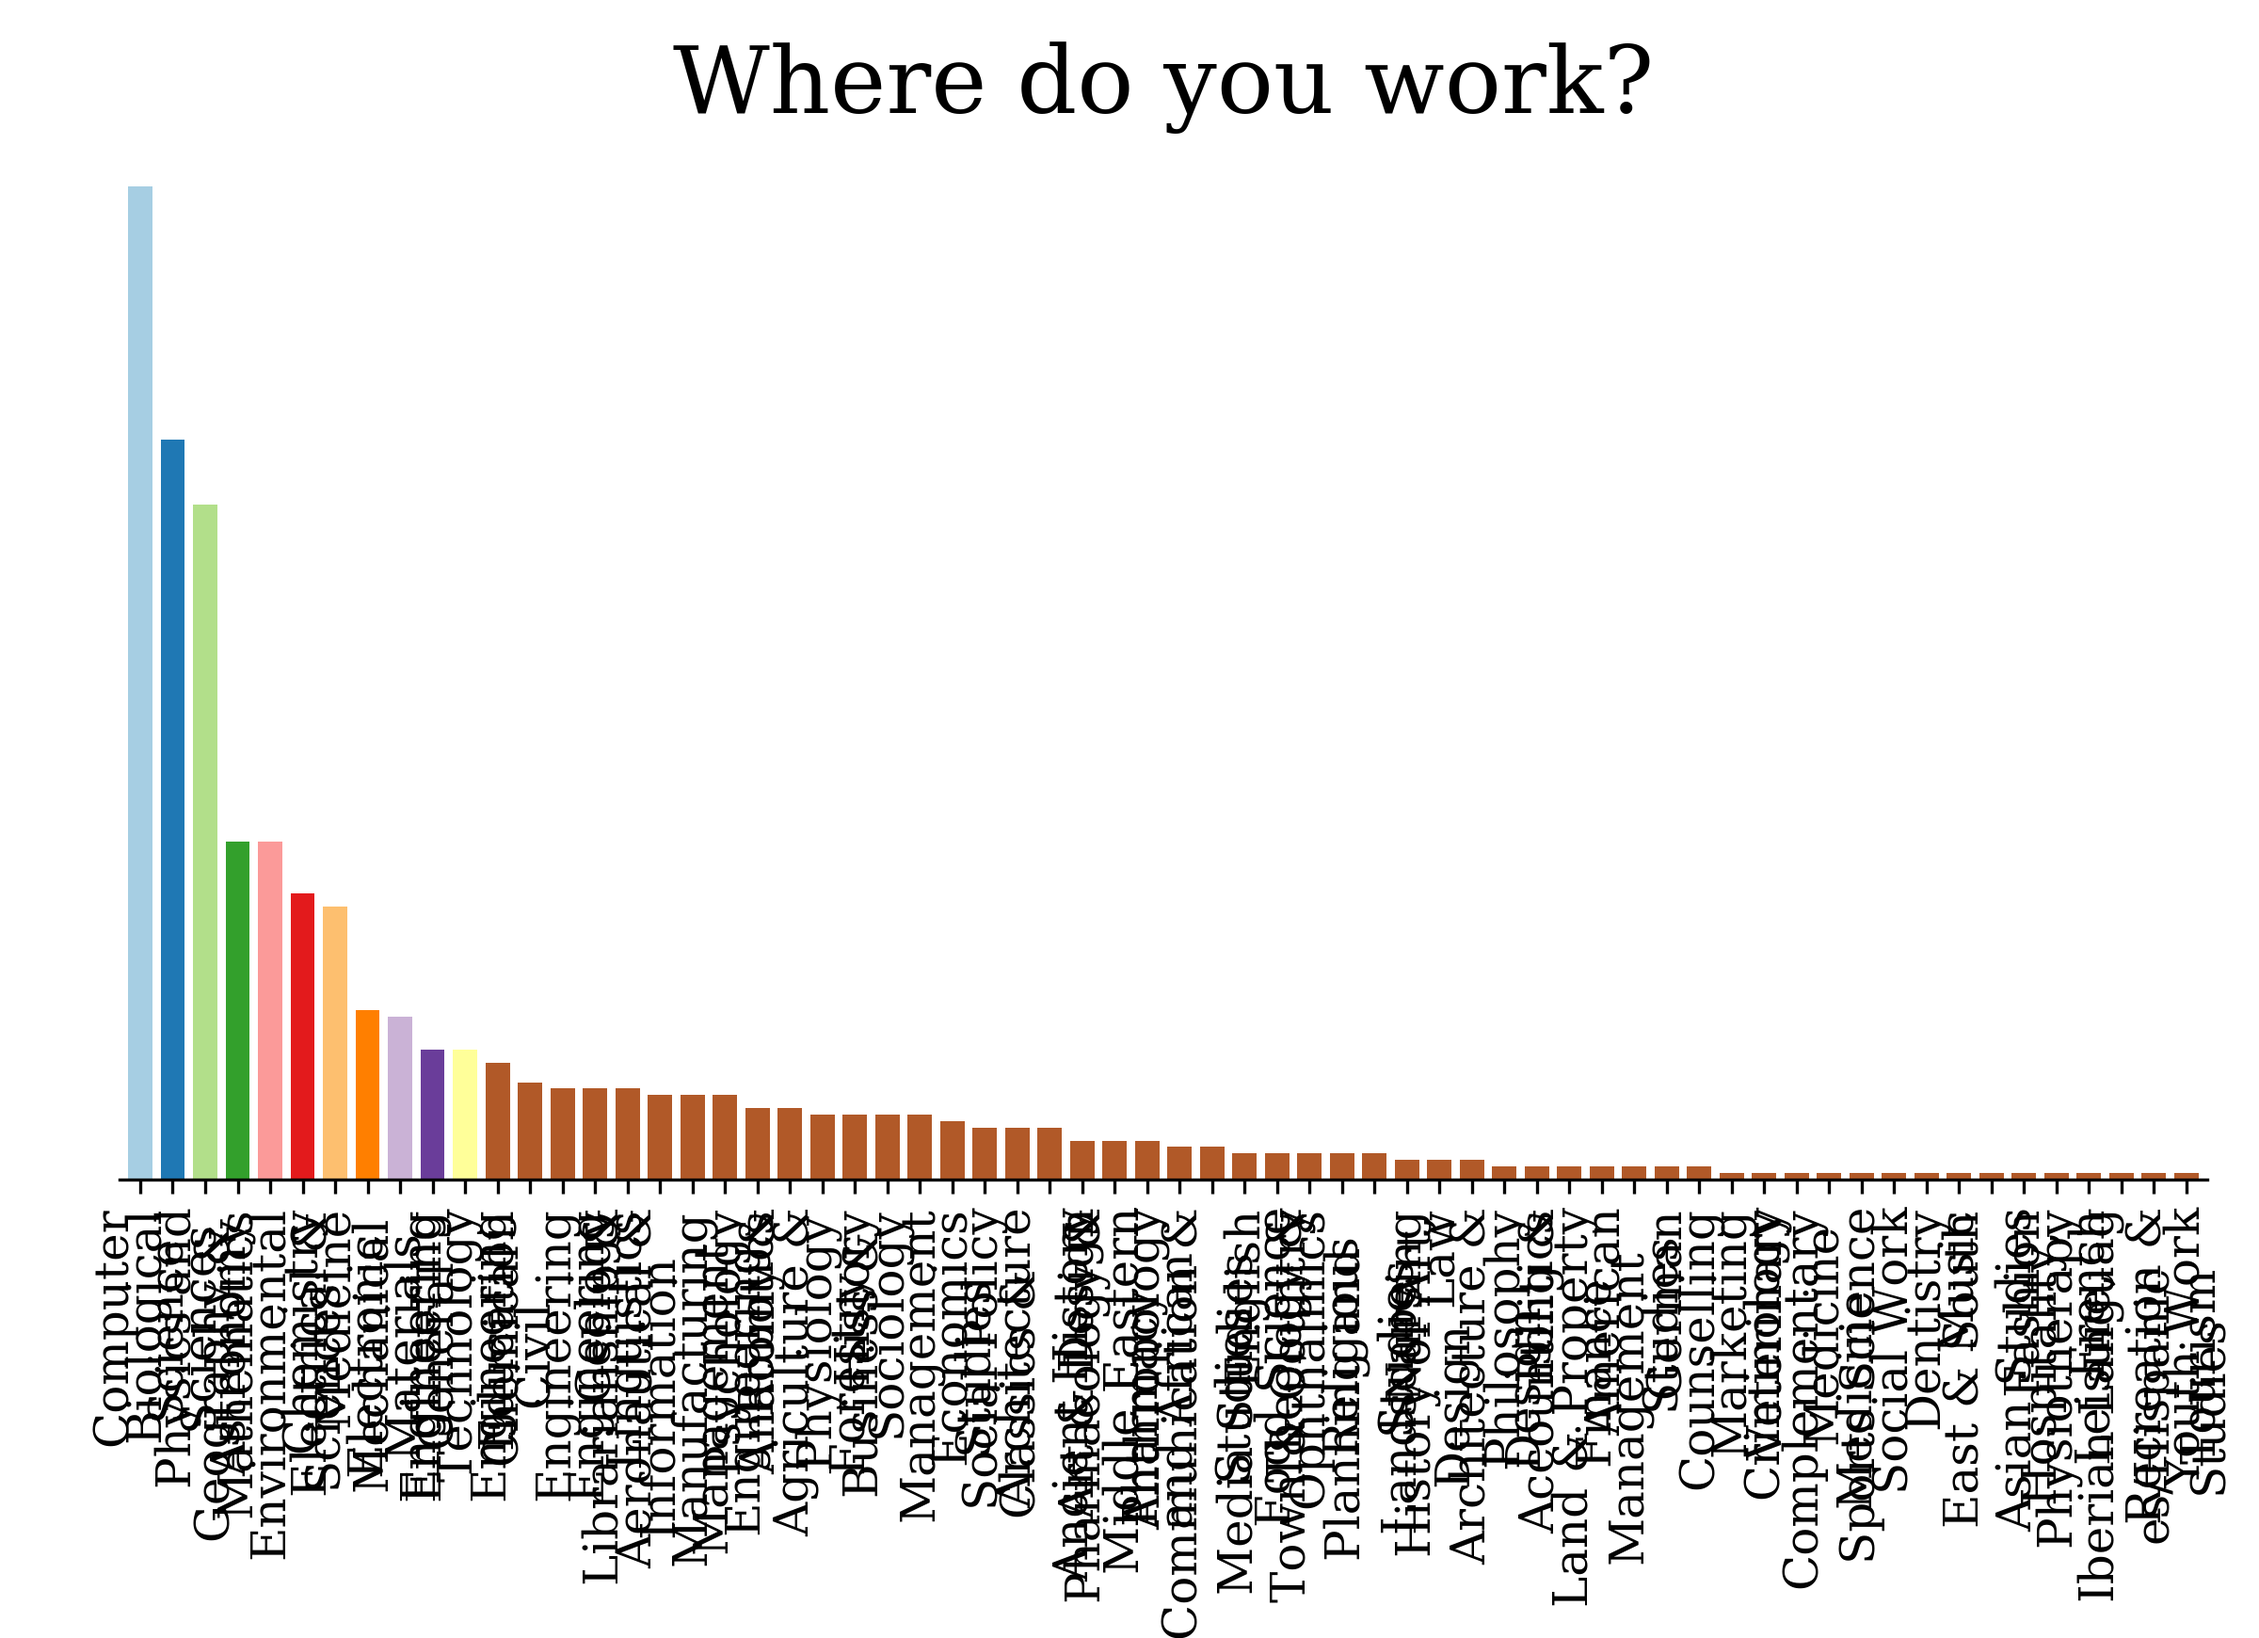
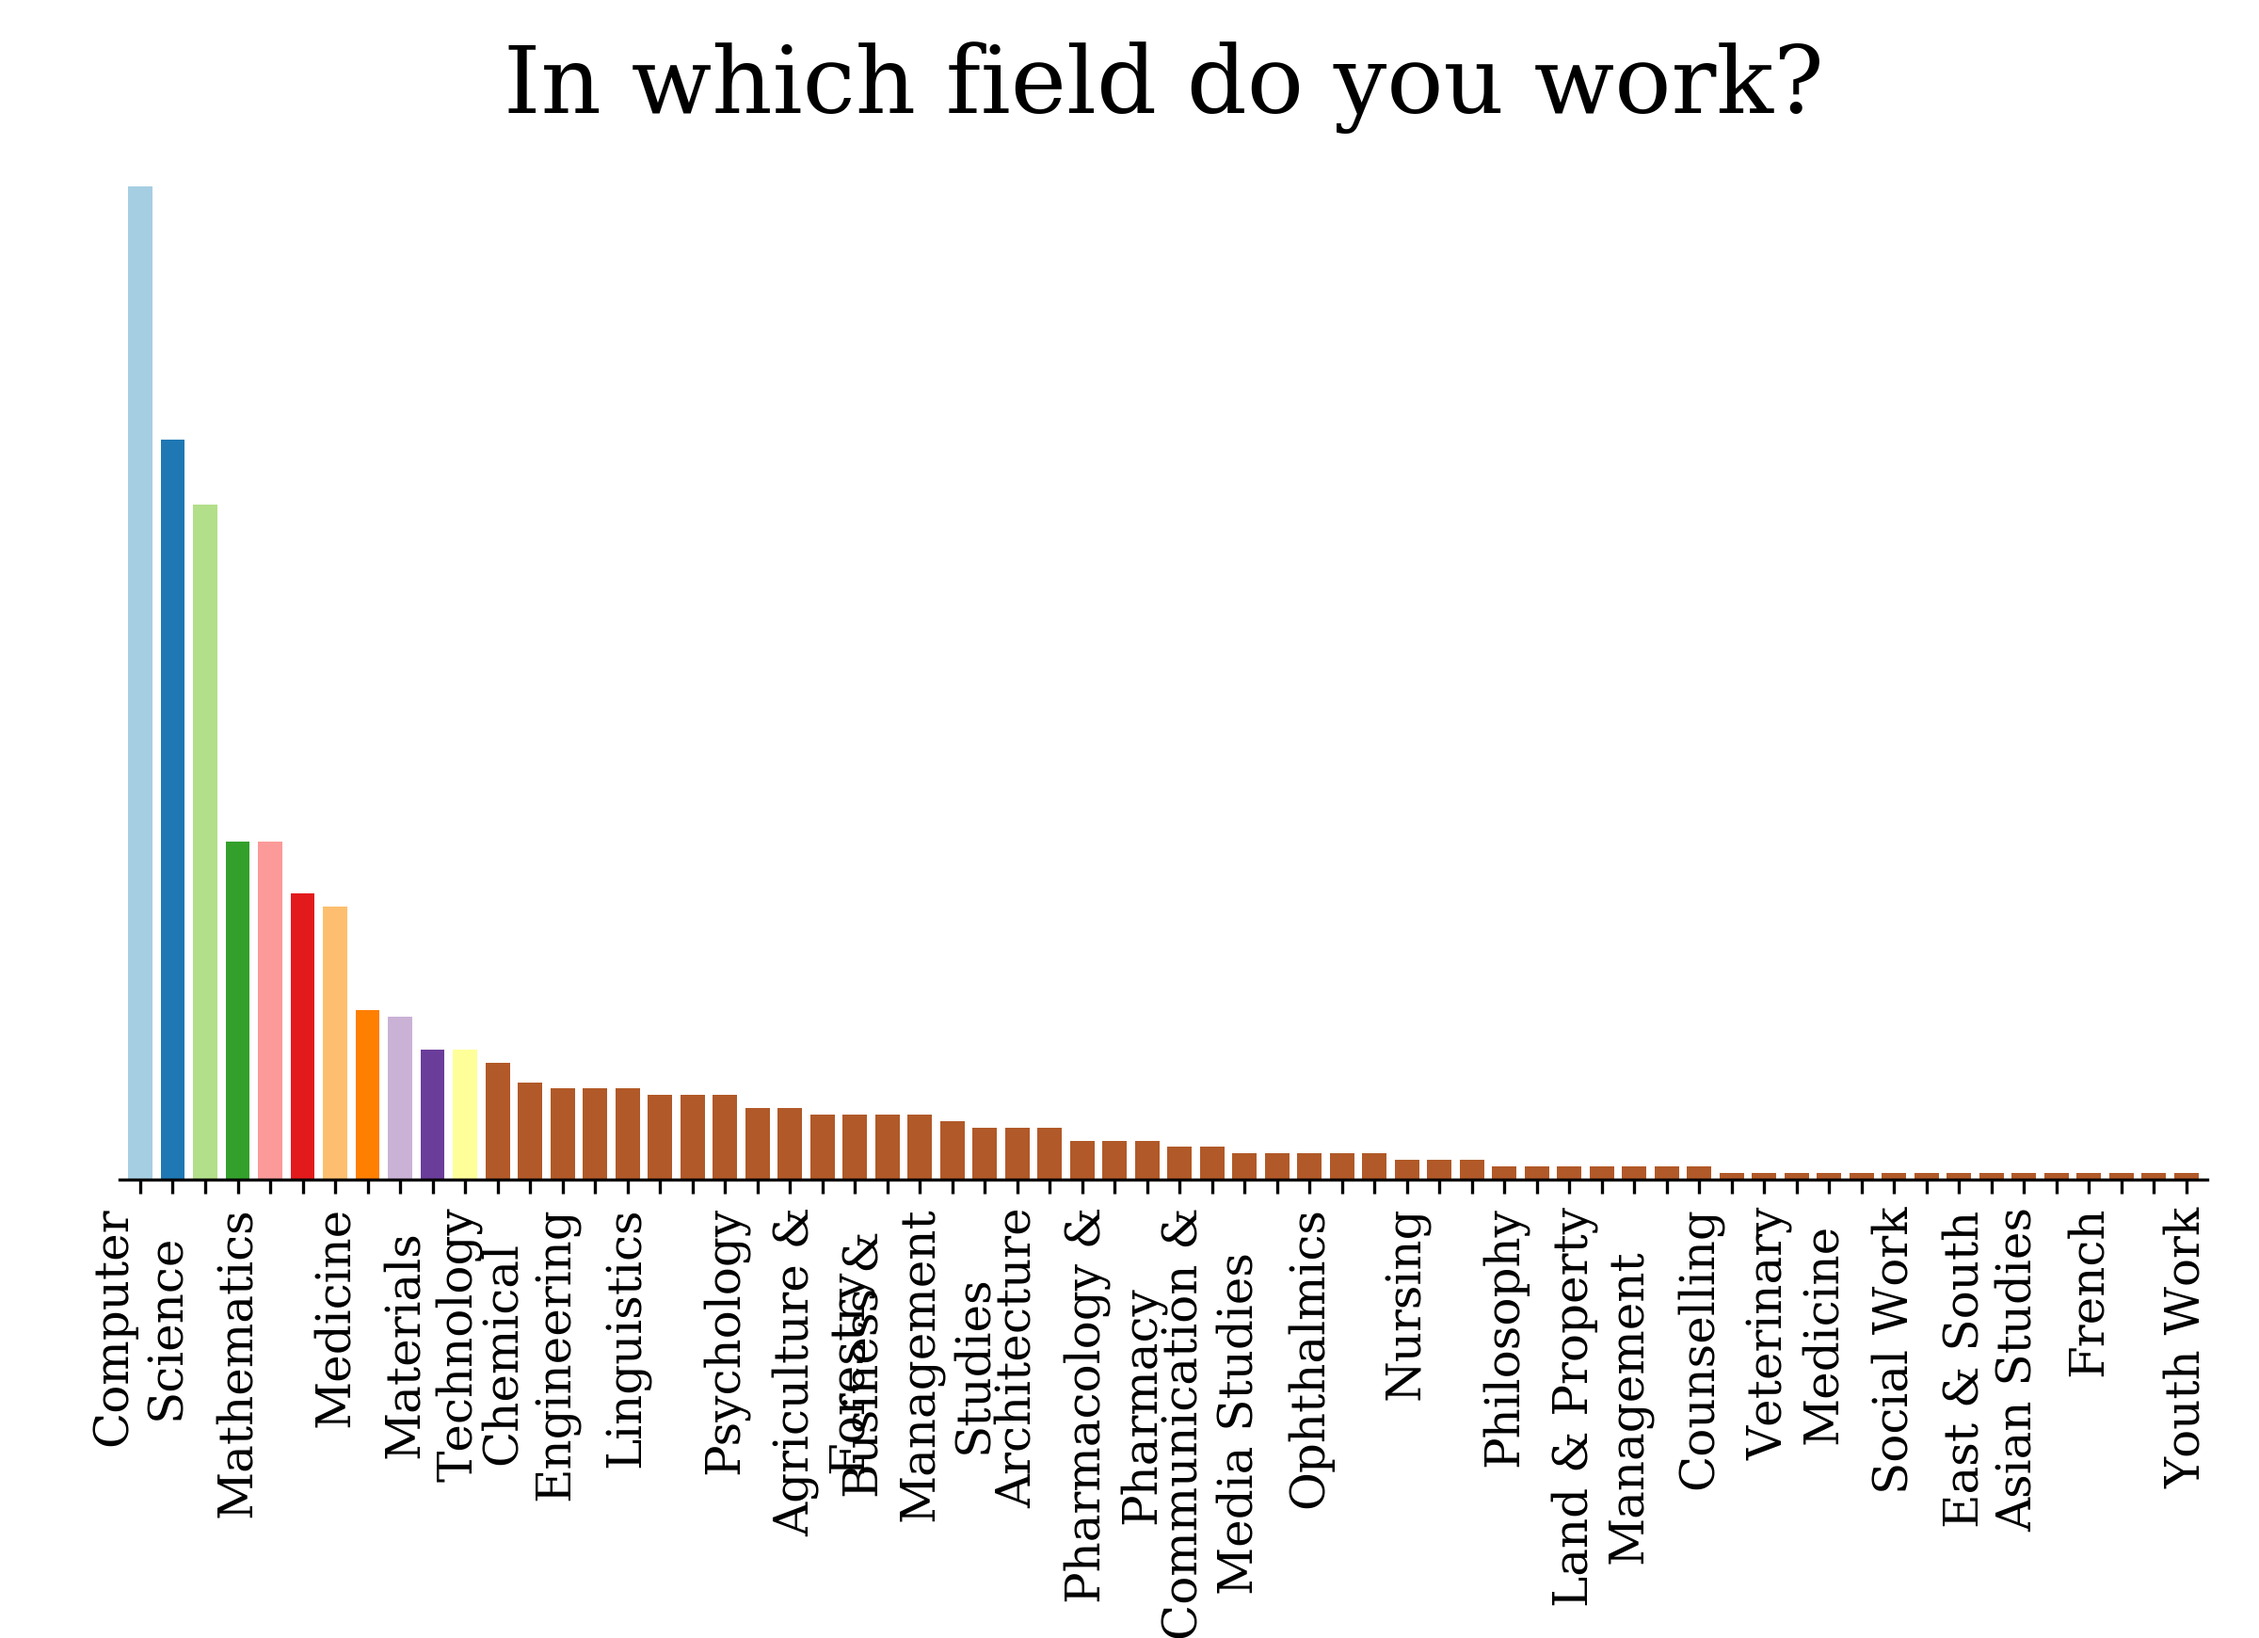
Adding data and charts

Changed region(s): [[0.0625, 0.7448, 1.0, 0.9931], [0.2188, 0.031, 0.8125, 0.0931]]

diff --git a/chart_details_lookup.py b/chart_details_lookup.py
@@ -13,15 +13,15 @@ global_specs = {
 
 '''
 plot_details is a dictionary of lists. The lists are of the form:
- 1. the file in which the data  is stored
- 2. which column to plot
- 3. title for x axis, or use False if no title to be shown
- 4. rotation of x-axis tick labels (0 is horizontal)
- 5. max length of x-axis tick labels before they start a new line
- 6. title for y axis, or use False if no title to be shown
- 7. title of chart, or use False if no title
- 8. whether to show value labels on bars (True/False)
- 9. how many labels to skip to clean up x axis (or False to skip none)
+ 0. the file in which the data  is stored
+ 1. which column to plot
+ 2. title for x axis, or use False if no title to be shown
+ 3. rotation of x-axis tick labels (0 is horizontal)
+ 4. max length of x-axis tick labels before they start a new line
+ 5. title for y axis, or use False if no title to be shown
+ 6. title of chart, or use False if no title
+ 7. whether to show value labels on bars (True/False)
+ 8. how labels to remove after each one shown (or False to keep all)
  9. fraction of chart dedicated to x-axis tick labels (0-1)
 10. size of title font
 11. size of axis fonts
@@ -29,9 +29,23 @@ plot_details is a dictionary of lists. The lists are of the form:
 '''
 
 plot_details = {
-#    'edu1':['edu1.csv', 'percentage', False, 0, 15, 'Percentage', 'Education level', True, 0.1,  24, 14, 24],
-#    'edu2':['edu2.csv', 'percentage', False, 90, 20, 'Percentage', 'Education background', False, 0.3, 24, 10, 14],
-#    'edu2p2':['edu2p2.csv', 'percentage', False, 90, 15, 'Percentage', 'Top five education backgrounds', True, 0.28,  24, 14, 20],
-#    'currentEmp1':['currentEmp1.csv', 'percentage', False, 45, 15, 'Percentage', 'Where do you work?', True, 0.28,  24, 12, 20],
-    'currentEmp13':['currentEmp13.csv', 'percentage', False, 90, 15, 'Percentage', 'Where do you work?', False, 0.28,  24, 12, 20]
+#    'edu1':['edu1.csv', 'percentage', False, 0, 15, 'Percentage', 'Education level', True, 0.1, False,  24, 14, 24],
+#    'edu2':['edu2.csv', 'percentage', False, 90, 20, 'Percentage', 'Education background', False, False, 0.3, 24, 10, 14],
+#    'edu2p2':['edu2p2.csv', 'percentage', False, 90, 15, 'Percentage', 'Top 10 backgrounds', True, False, 0.28,  24, 14, 20],
+#    'currentEmp1':['currentEmp1.csv', 'percentage', False, 45, 15, 'Percentage', 'Where do you work?', True, False, 0.28,  24, 12, 20],
+#    'currentEmp13':['currentEmp13.csv', 'percentage', False, 90, 15, 'Percentage', 'In which field do you work?', False, 2, 0.28,  24, 12, 20],
+#    'currentEmp13p2':['currentEmp13p2.csv', 'percentage', False, 90, 15, 'Percentage', 'To 10 fields of work', True, False, 0.28,  24, 12, 20],
+#    'currentEmp10':['currentEmp10.csv', 'percentage', False, 0, 15, 'Percentage', 'What type of contract?', True, False, 0.15,  24, 12, 20],
+#    'currentEmp10p2':['currentEmp10p2.csv', 'percentage', False, 0, 15, 'Percentage', 'What type of contract?', True, False, 0.15,  24, 12, 20],
+#    'rse1':['rse1.csv', 'percentage', False, 0, 15, 'Percentage', 'Do you write code?', True, False, 0.15,  24, 12, 20],
+#    'rse3':['rse3.csv', 'percentage', False, 0, 15, 'Percentage', 'Who uses your code?', True, False, 0.15,  24, 14, 20],
+#    'paper1':['paper1.csv', 'percentage', False, 0, 15, 'Percentage', 'Has your code contributed to a publication?', True, False, 0.15,  24, 14, 20],
+#    'paper1p2':['paper1p2.csv', 'percentage', False, 0, 15, 'Percentage', 'Were you acknowledged?', True, False, 0.15,  24, 14, 20],
+#    'train1':['train1.csv', 'percentage', False, 0, 15, 'Percentage', 'Have you trained researchers?', True, False, 0.15,  24, 14, 20],
+#    'stability1':['stability1.csv', 'percentage', False, 0, 15, 'Percentage', 'Bus factor', True, False, 0.15,  24, 14, 20],
+#    'stability2':['stability2.csv', 'percentage', False, 0, 15, 'Percentage', 'Technical handover plan?', True, False, 0.15,  24, 14, 20],
+#    'stability3':['stability3.csv', 'percentage', False, 0, 15, 'Percentage', 'Have you released under Open Source?', True, False, 0.15,  24, 14, 20]
+#    'socio3':['socio3.csv', 'percentage', False, 45, 10, 'Percentage', 'Age', True, False, 0.2,  24, 14, 20],
+#    'socio2':['socio2.csv', 'percentage', False, 0, 15, 'Percentage', 'Gender', True, False, 0.15,  24, 14, 20],
+    'socio5':['socio5.csv', 'percentage', False, 45, 15, 'Percentage', 'Ethnic origin', True, False, 0.3,  24, 14, 20]
     }

diff --git a/graphing.py b/graphing.py
@@ -57,16 +57,24 @@ def plot_bar_matplot(df, current_chart):
     y_axis_label = plot_details[current_chart][5]
     chart_title = plot_details[current_chart][6]
     show_values = plot_details[current_chart][7]
-    bottom_size = plot_details[current_chart][8]
-    title_size = plot_details[current_chart][9]
-    body_size = plot_details[current_chart][10]
-    label_size = plot_details[current_chart][11]
+    skip_labels = plot_details[current_chart][8]
+    bottom_size = plot_details[current_chart][9]
+    title_size = plot_details[current_chart][10]
+    body_size = plot_details[current_chart][11]
+    label_size = plot_details[current_chart][12]
 
     # Set the labels
     labels = df.index
 
     # If labels are long, wrap 'em
     labels = [ '\n'.join(wrap(l, x_axis_label_cutoff)) for l in labels ] # Change the number to change the max number of characters per line
+
+    if skip_labels != False:
+        count = 0
+        for x in range(0,len(labels)):
+            if count%(skip_labels+1) != 0:
+                labels[count]=''
+            count+=1
 
     # Now plot
     fig = df[y_axis_name].plot(kind='bar',                      # Plot a bar chart
@@ -89,7 +97,8 @@ def plot_bar_matplot(df, current_chart):
              fontsize=label_size)           # Set font size
 
     if chart_title != False:
-        plt.title(chart_title, fontname=global_specs['font_name'], fontsize=title_size)
+        plt.title(chart_title, fontname=global_specs['font_name'], fontsize=title_size, y=1.08)  # y increases the spacing between the title and
+                                                                                                 #plot content
 
     # Make plot scale to fit plot area
     plt.tight_layout()
